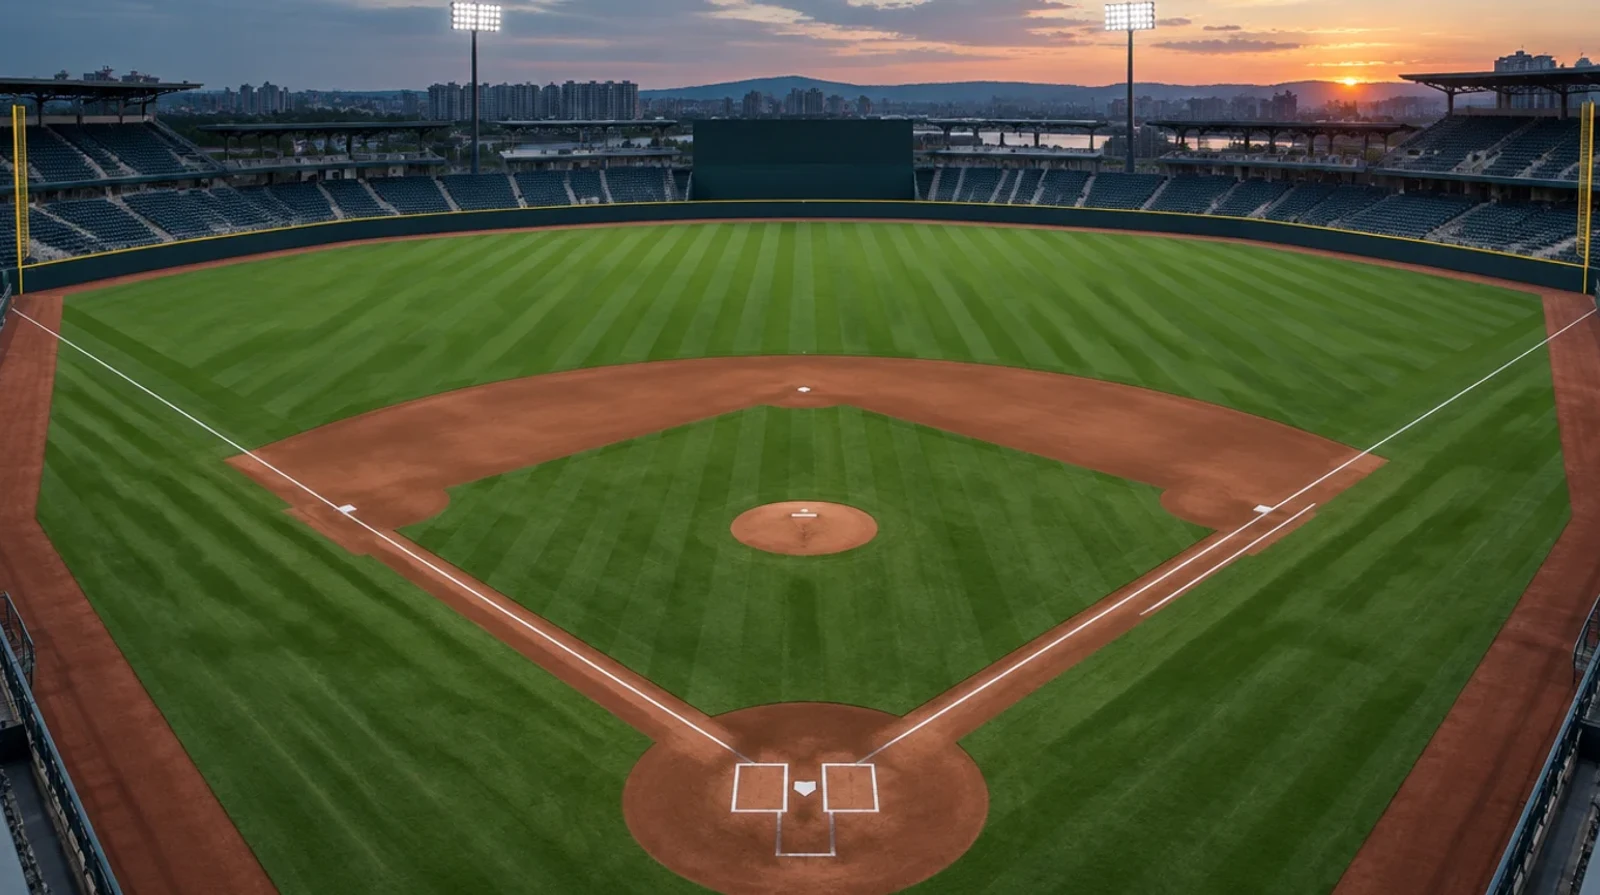
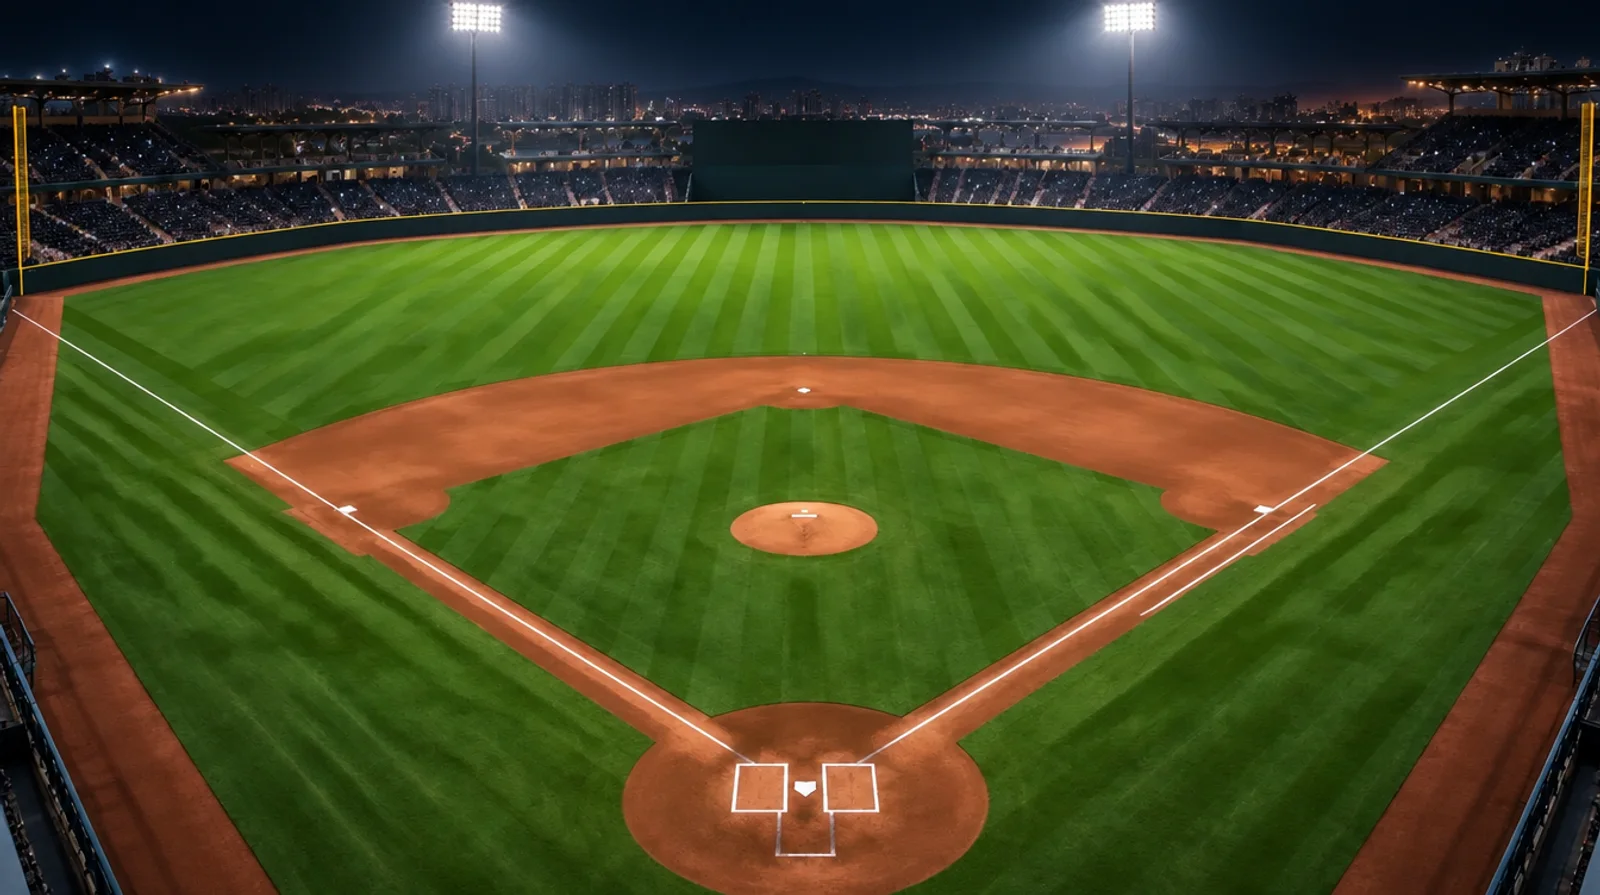
경기 화면 구장 배경을 야간으로 — 해 질 녘 사진을 같은 구도로 다시 뽑음(조명 켠 야간 · 관중 · 도시 불빛), 베이스 자리 재어 둔 값 그대로 맞음

diff --git a/src/play/backgrounds.js b/src/play/backgrounds.js
@@ -22,13 +22,13 @@ const STAGE = { dy: -54 };
    아직 눈으로 맞추지 못한 어림값이다 — play-lab 의 '다이아몬드 자'로 확인해야 한다 */
 const STEEP = marksFrom({ homeY: 790, sideY: 565, secondY: 395, halfW: 340 });
 
-/* 새 부감 구장(park-16.webp) — 사진에서 잰 베이스 자리. 홈 800,776 · 1루 1245,502 · 2루 800,383 · 3루 352,502 */
+/* 부감 구장(park-16.webp · 해 질 녘 사진을 같은 구도의 야간으로 다시 뽑음) — 사진에서 잰 베이스 자리. 홈 800,776 · 1루 1245,502 · 2루 800,383 · 3루 352,502 */
 const PARK = marksFrom({ homeY: 776, sideY: 502, secondY: 383, halfW: 445 });
 /* 구장은 제 칸 안에 있다 — 사진이 칸을 꽉 덮는다 */
 const PARK_STAGE = { dy: 0, zoom: 1 };
 
 export const FIELD_BGS = [
-  { id: 'park-night', stage: PARK_STAGE, name: '0 · 야간 도심 부감 ★새', src: 'ui/field/park-16.webp', marks: PARK },
+  { id: 'park-night', stage: PARK_STAGE, name: '0 · 야간 도심 부감', src: 'ui/field/park-16.webp', marks: PARK },
   { id: 'field-n1', stage: STAGE, name: '1 · 정통 부감 ★', src: 'ui/field-n1.webp', remoteSrc: `${CDN}hf_20260917_094834_f5f3c9f0-281f-4d2f-8c76-0446e9dd982b.png`, marks: STEEP },
   { id: 'field-b', stage: STAGE, name: '이전 B · 높은 전술 부감', src: 'ui/field-b.webp', remoteSrc: gen1('28964324-b915-40a2-a7d8-f48073e82778'), marks: STEEP },
   { id: 'field-now', stage: STAGE, name: '지금 배경', src: 'ui/broadcast-field.webp', marks: MEASURED },
